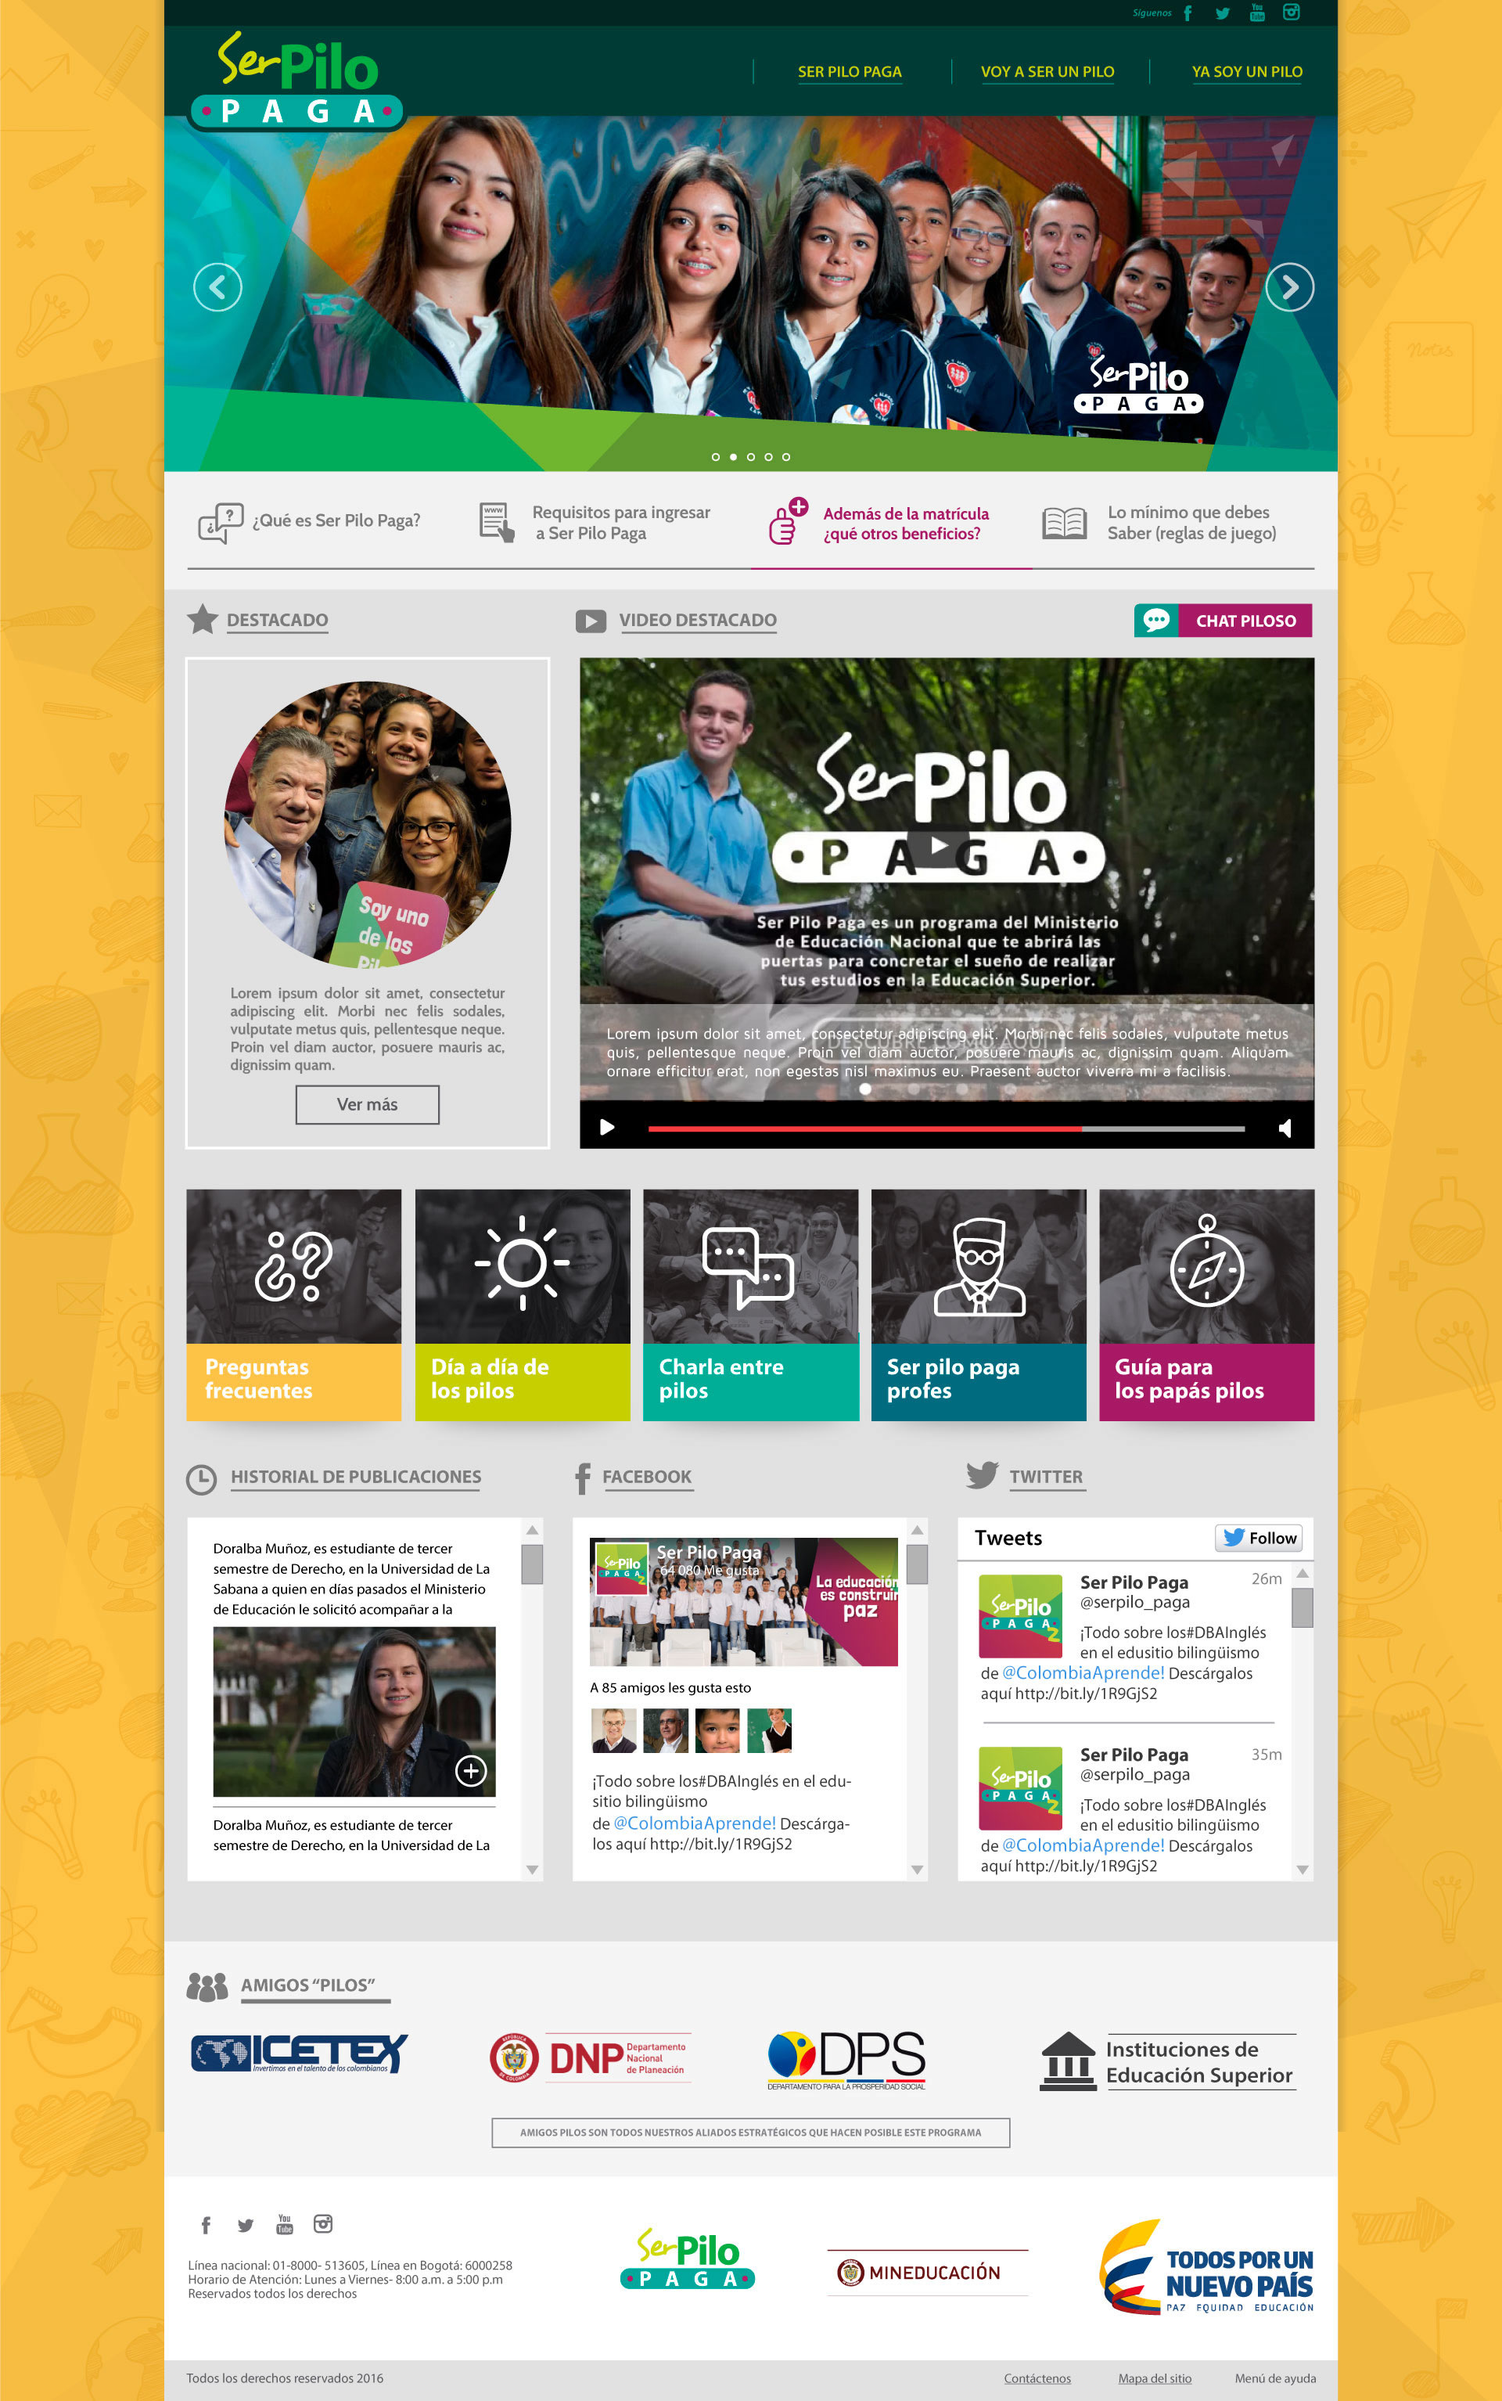
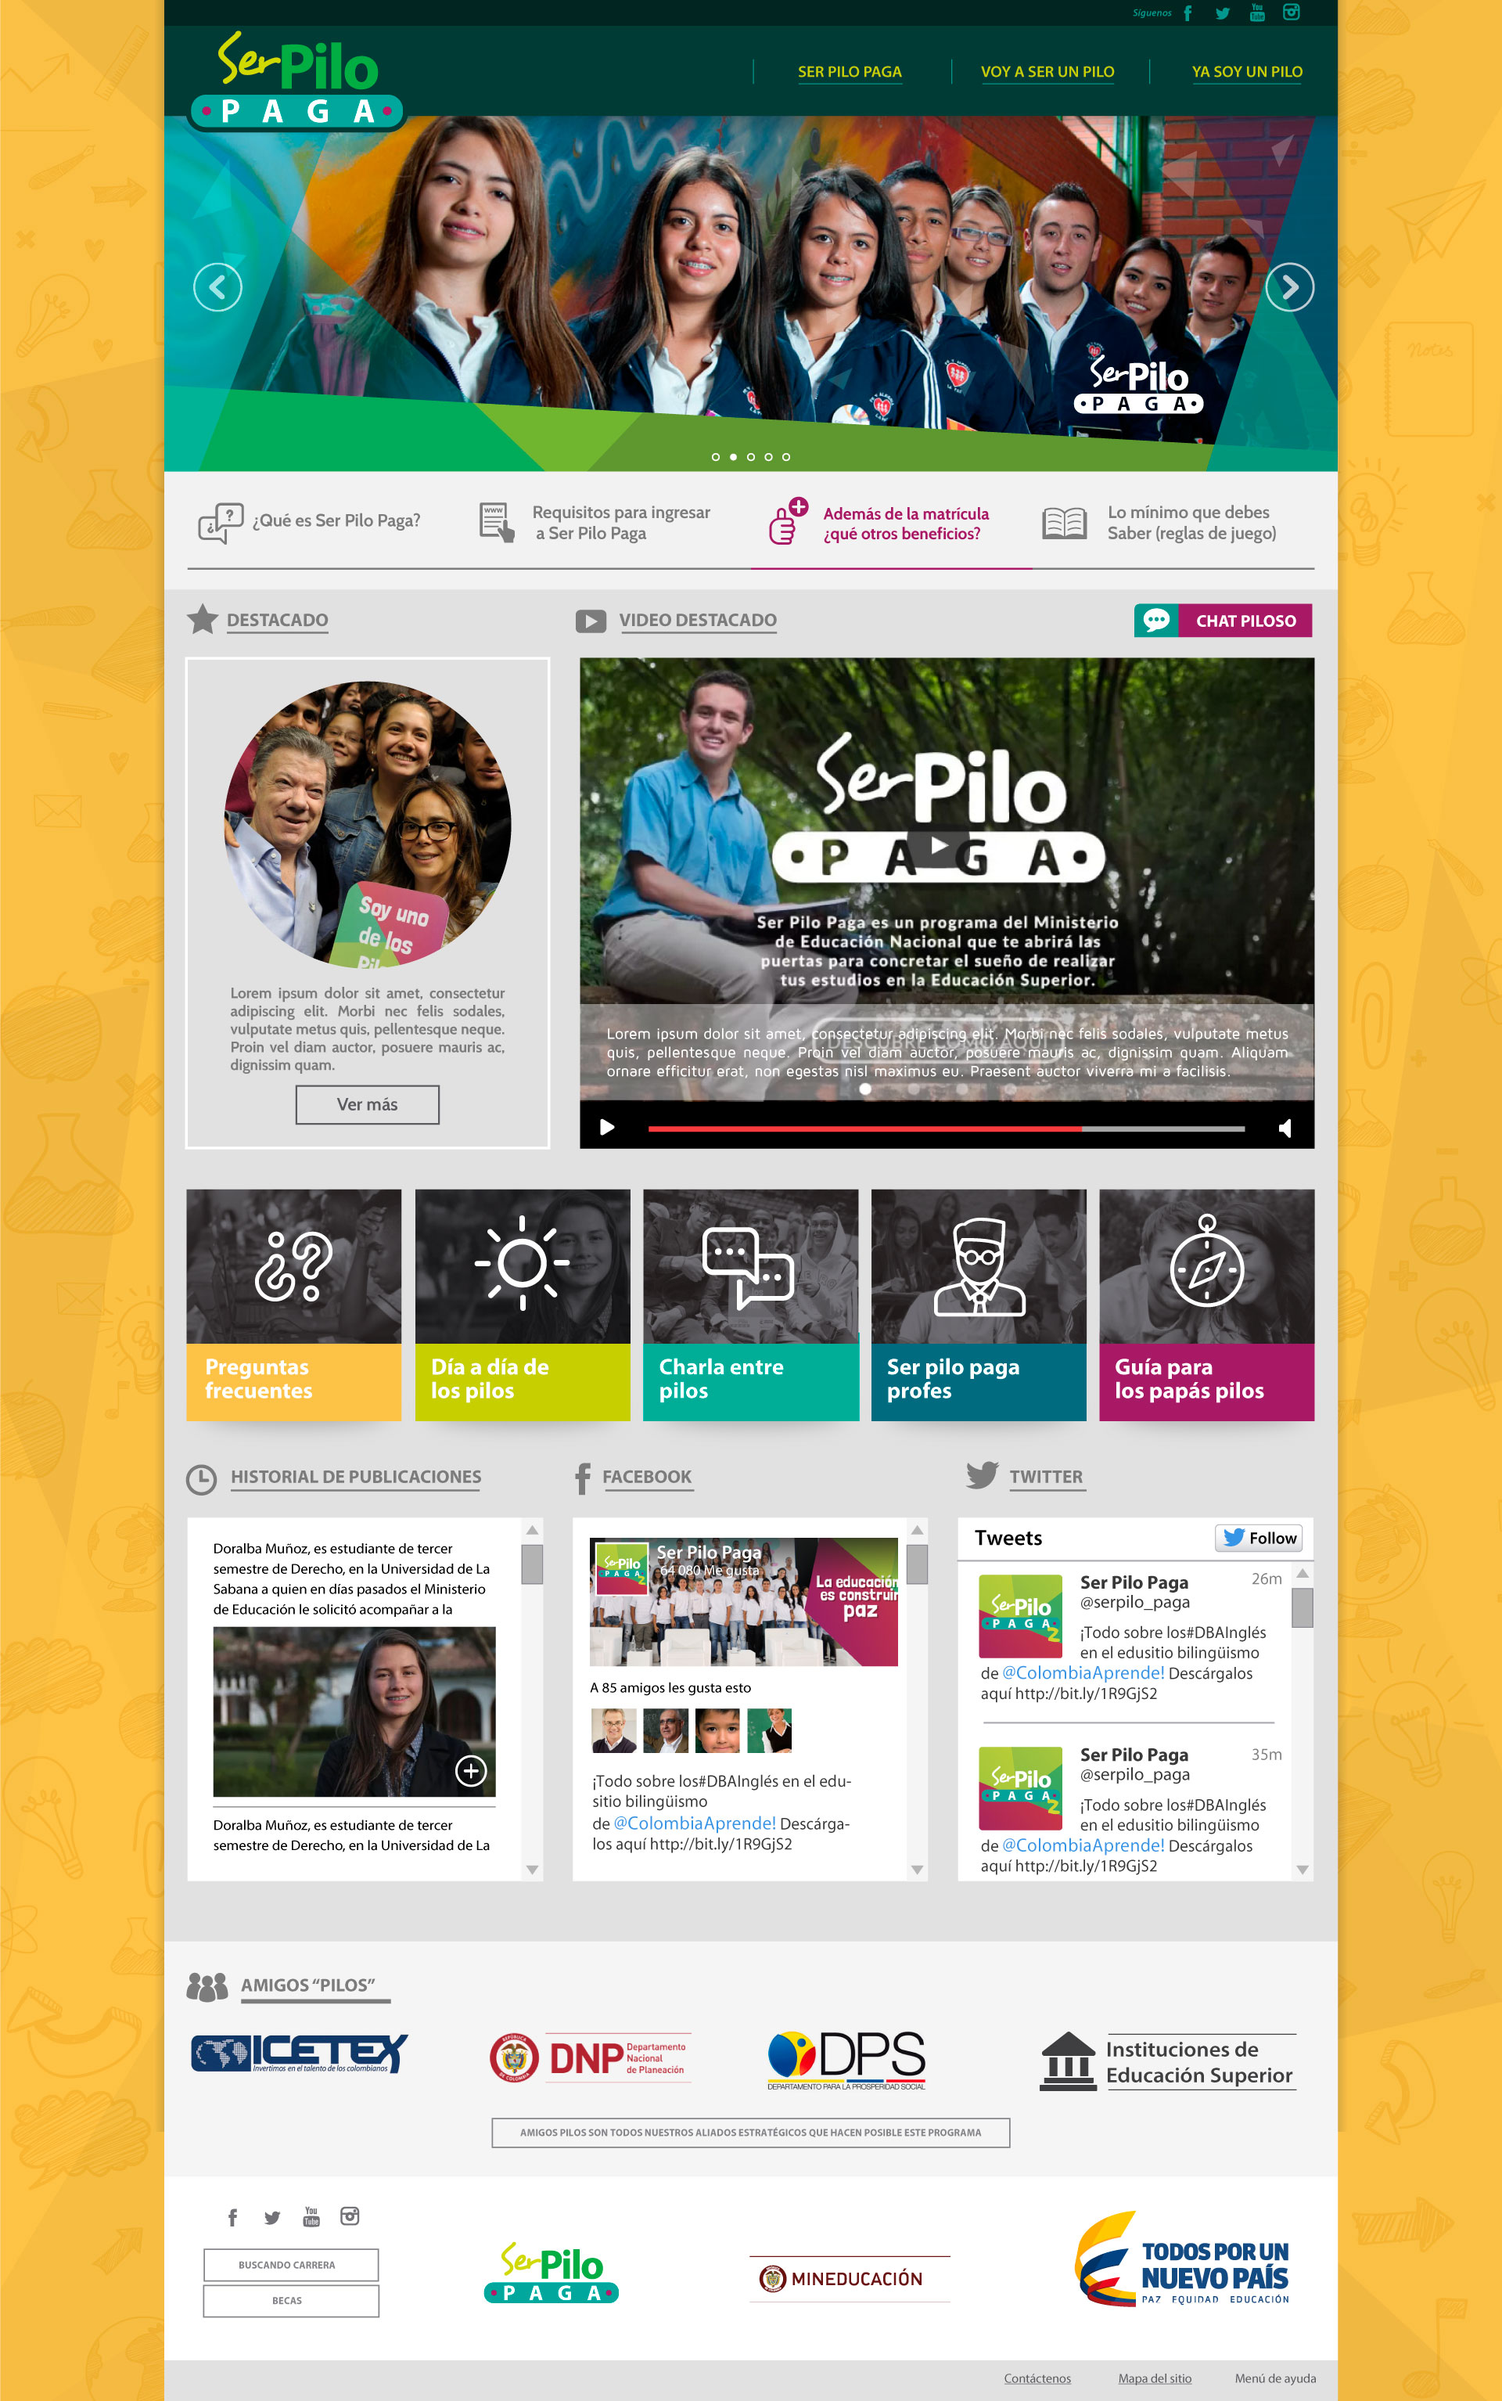
ingreso de botones

Changed region(s): [[0.125, 0.898, 0.6562, 0.9599], [0.7188, 0.898, 0.875, 0.9909]]

diff --git a/index.htm b/index.htm
@@ -5,10 +5,12 @@
 <head>
 <title>index</title>
 <meta http-equiv="Content-Type" content="text/html; charset=utf-8" />
-<!--Fireworks CS6 Dreamweaver CS6 target.  Created Thu Mar 10 15:36:02 GMT-0500 (SA Pacific Standard Time) 2016-->
+<!--Fireworks CS6 Dreamweaver CS6 target.  Created Thu Mar 10 16:23:58 GMT-0500 (SA Pacific Standard Time) 2016-->
 </head>
 <body bgcolor="#ffffff">
 <img name="index" src="index.jpg" width="1920" height="3068" id="index" usemap="#m_index" alt="" /><map name="m_index" id="m_index">
+<area shape="rect" coords="260,2920,483,2961" href="http://aprende.colombiaaprende.edu.co/serpilopaga/88165" target="_self" title="becas" alt="becas" />
+<area shape="rect" coords="260,2874,483,2914" href="http://snies.mineducacion.gov.co/buscandocarrerav2/buscaPrograma?nivel=01" target="_self" title="buscar carrera" alt="buscar carrera" />
 <area shape="rect" coords="1405,1520,1678,1817" href="http://aprende.colombiaaprende.edu.co/es/serpilopaga/86626" target="_self" title="papas" alt="papas" />
 <area shape="rect" coords="1117,1520,1389,1817" href="http://aprende.colombiaaprende.edu.co/es/serpilopaga/86625" target=" " title="profes" alt="profes" />
 <area shape="rect" coords="822,1520,1098,1817" href="http://aprende.colombiaaprende.edu.co/es/serpilopaga/86624" target="_self" title="charla" alt="charla" />
@@ -16,7 +18,7 @@
 <area shape="rect" coords="234,1520,512,1817" href="http://aprende.colombiaaprende.edu.co/es/serpilopaga/86622" target="_self" title="preguntas" alt="preguntas" />
 <area shape="rect" coords="234,840,702,1467" href="http://aprende.colombiaaprende.edu.co/es/serpilopaga/86894" target="_self" title="destacado" alt="destacado" />
 <area shape="rect" coords="1321,627,1686,719" href="minimo.htm" target="_self" title="minimo" alt="minimo" />
-<area shape="rect" coords="980,627,1321,719" href="matricula.htm" target="_self" title="matriculas" alt="matriculas" />
+<area shape="rect" coords="980,627,1321,719" href="matriculas.htm" target="_self" title="matriculas" alt="matriculas" />
 <area shape="rect" coords="599,627,980,719" href="requisitos.htm" target="_self" title="requisitos" alt="requisitos" />
 <area shape="rect" coords="234,627,599,719" href="quees1.htm" target="_self" title="que es" alt="que es" />
 <area shape="rect" coords="1469,73,1710,109" href="http://aprende.colombiaaprende.edu.co/es/serpilopaga/86642" target=" " title="ya soy un pilo" alt="ya soy un pilo" />
